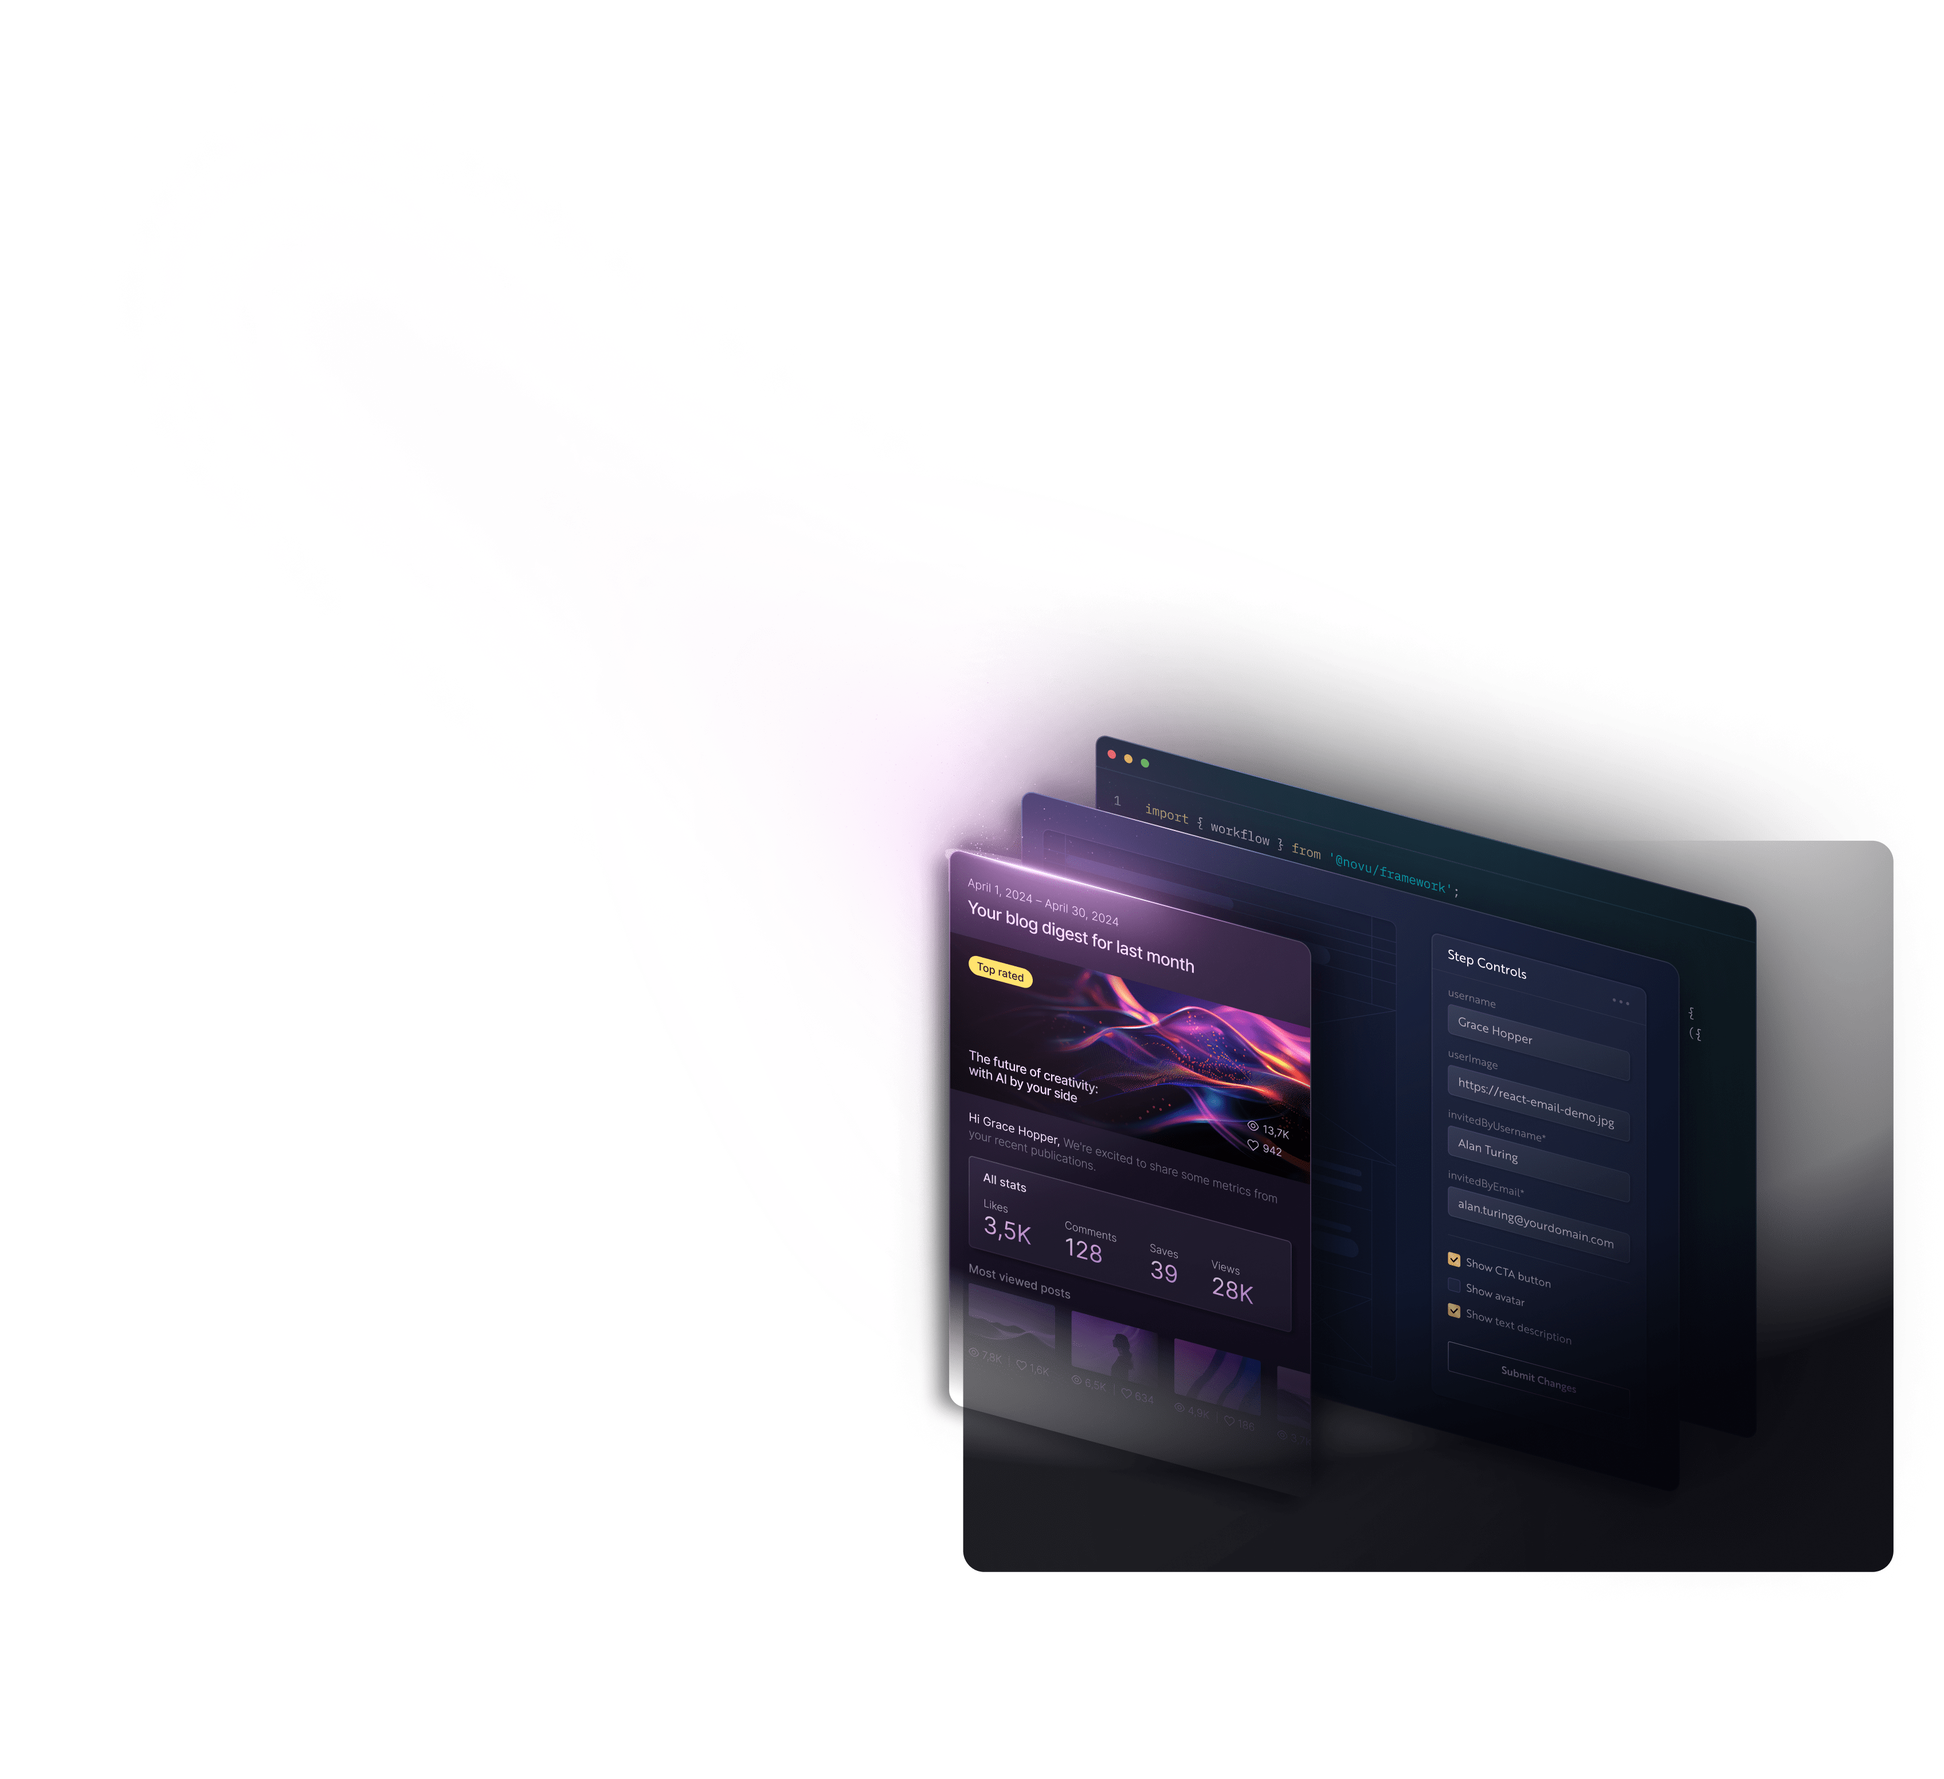
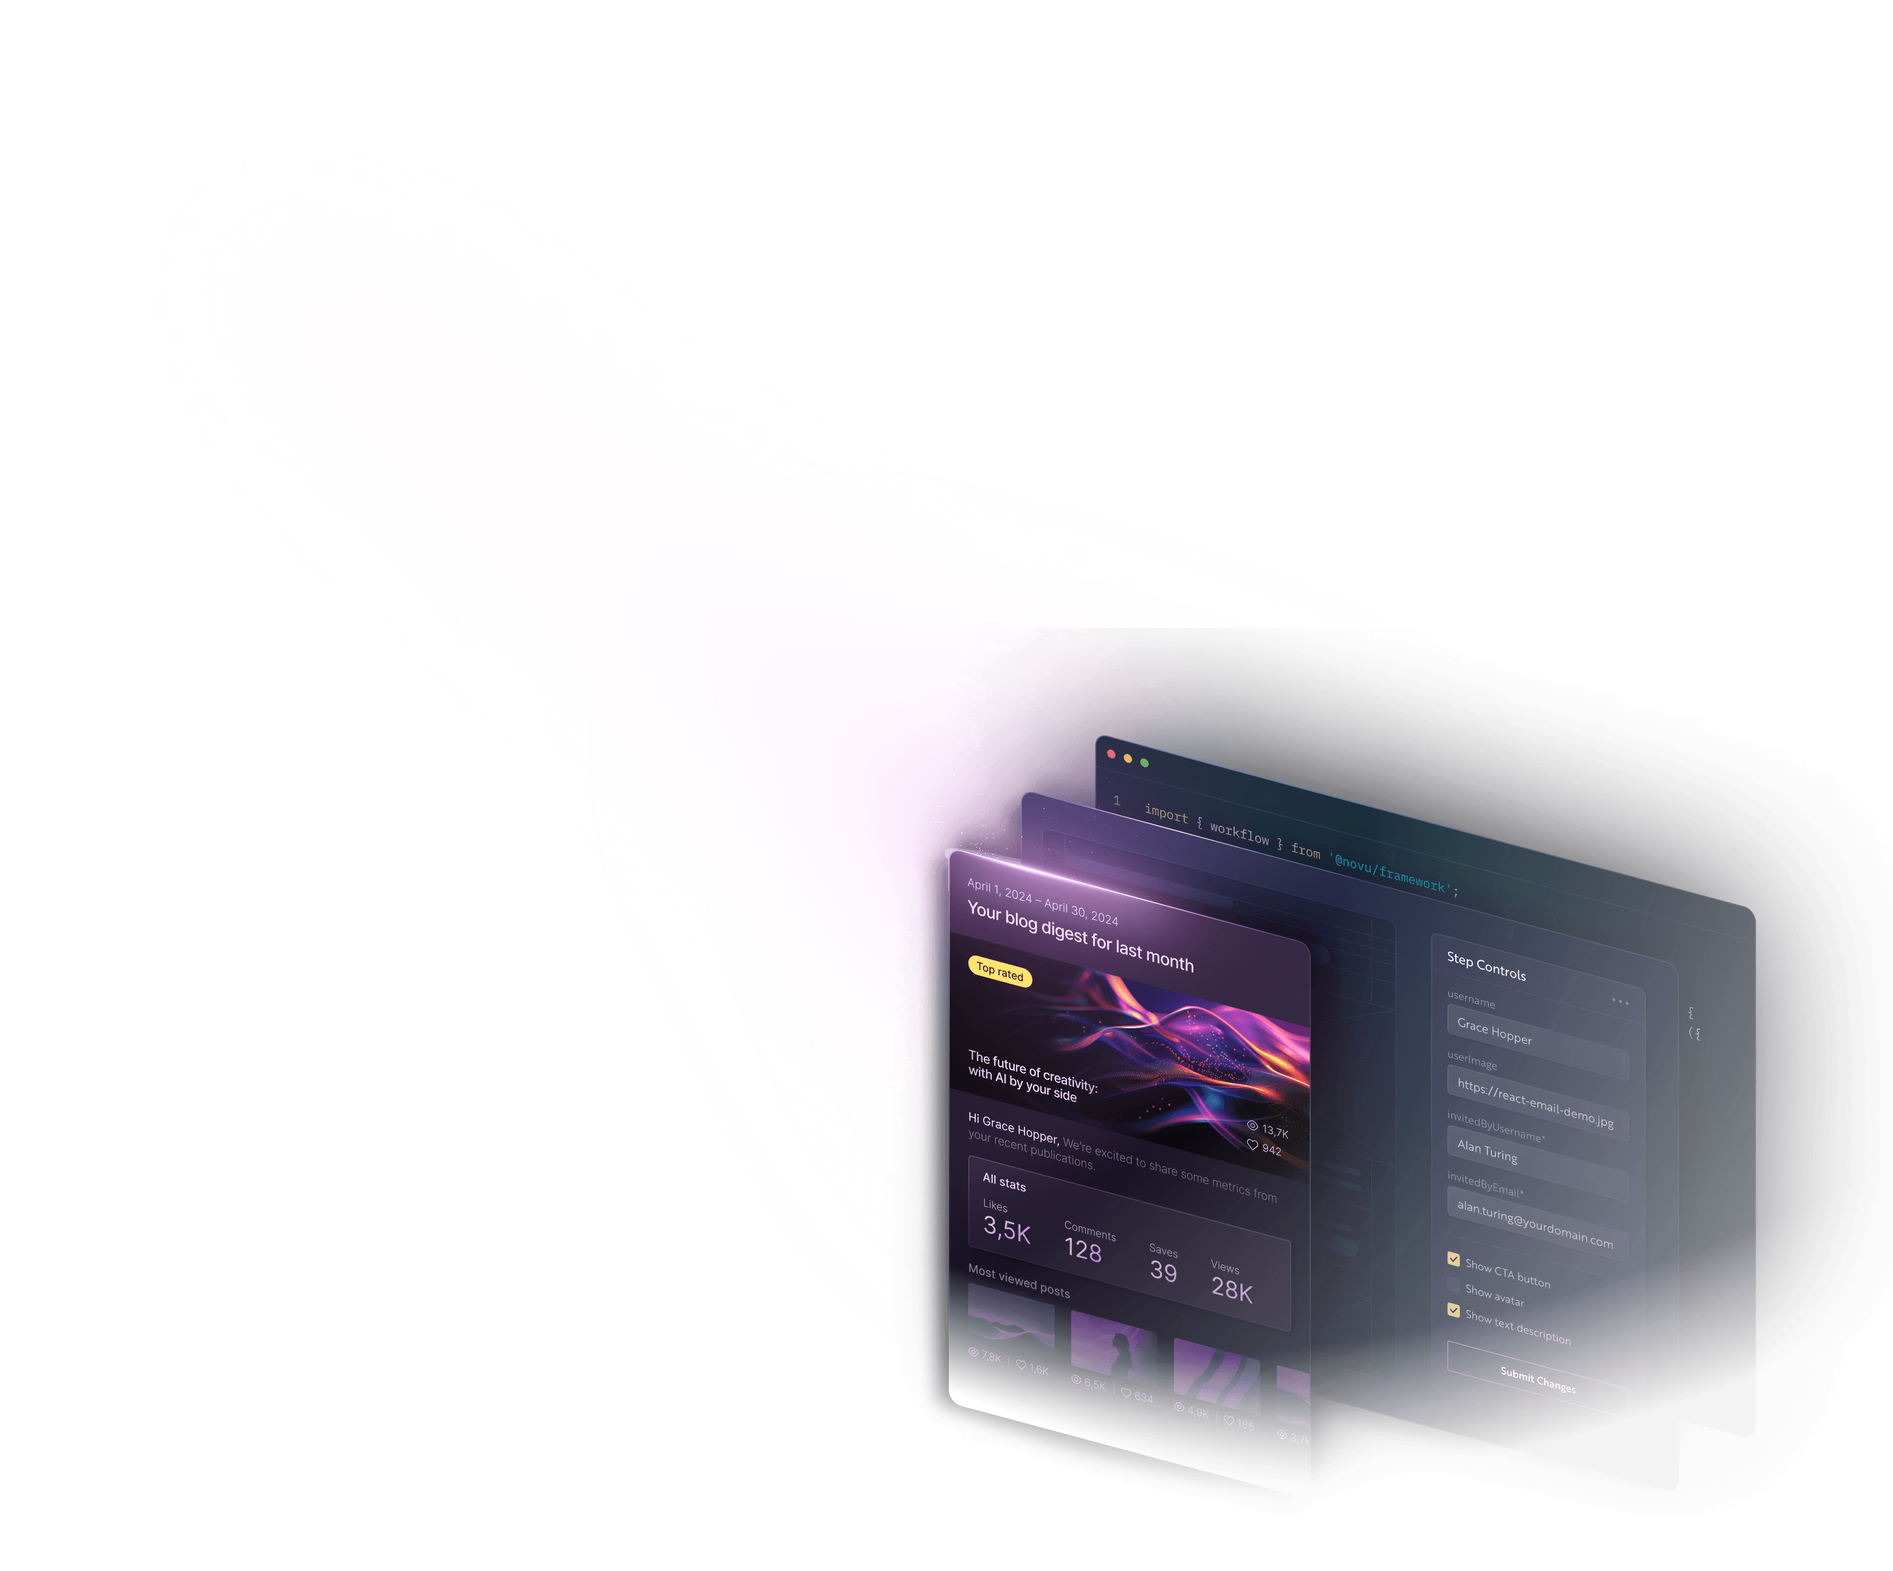
refactor: homepage cleanup

Changed region(s): [[0.4676, 0.372, 0.9976, 0.961]]

diff --git a/src/components/pages/home/code/code.jsx b/src/components/pages/home/code/code.jsx
@@ -62,9 +62,9 @@ const Code = () => {
 
   return (
     <section className="code mt-[206px] lg:mt-36 md:mt-[116px] sm:mt-20">
-      <div className="container-lg px-8 min-h-[836px] relative lg:max-w-5xl lg:min-h-[692px] md:max-w-3xl md:min-h-[535px] sm:min-h-[324px]">
+      <div className="container-lg px-8 min-h-[836px] relative lg:w-full sm:px-5 lg:max-w-5xl lg:min-h-[692px] md:max-w-3xl md:min-h-[535px] sm:min-h-[324px]">
         <h2
-          className="relative z-10 text-[44px] leading-none tracking-snug font-medium text-transparent max-w-[700px] bg-clip-text bg-[linear-gradient(360deg,rgba(104,181,215,1)_-19.23%,#FFFFFF_30.54%)] ml-[42px] lg:text-5xl lg:ml-8 md:text-4xl md:max-w-md md:ml-0 sm:text-[32px]"
+          className="relative z-10 text-[44px] leading-none tracking-snug font-medium text-transparent max-w-[700px] bg-clip-text bg-[linear-gradient(360deg,rgba(104,181,215,1)_-19.23%,#FFFFFF_30.54%)] ml-[42px] lg:text-5xl lg:ml-8 md:text-4xl md:max-w-lg md:ml-0 sm:text-[32px]"
           dangerouslySetInnerHTML={{ __html: TITLE }}
         />
         <p className="mt-4 text-[17px] leading-snug font-book text-gray-9 max-w-[800px] ml-[42px] lg:ml-8 md:ml-0 lg:mt-2.5 md:text-base md:mt-3">
@@ -91,9 +91,9 @@ const Code = () => {
             </li>
           ))}
         </ul>
-        <div className="relative z-10 lg:mx-auto sm:max-w-80 sm:mx-auto">
+        <div className="relative z-10 lg:mx-auto sm:max-w-[572px] sm:mx-auto sm-xs:max-w-80">
           <SyntaxHighlighter
-            className="echo-code relative z-10 pl-[42px] mt-[70px] scrollbar-hidden text-sm font-normal lg:mt-[62px] lg:pl-[35px] lg:text-xs md:mt-[53px] md:pl-[26px] sm:text-[10px] sm:mt-11 sm:overflow-y-scroll sm:ml-2 sm:pl-[7px] sm:mr-1.5 sm:[mask-image:linear-gradient(270deg,rgba(255,255,255,0.5)_0%,#FFFFFF_11.33%)]"
+            className="echo-code relative z-10 pl-[42px] mt-[70px] scrollbar-hidden text-sm font-normal lg:mt-[62px] lg:pl-[35px] lg:text-xs md:mt-[53px] md:pl-[26px] sm:text-[10px] sm:mt-11 sm:overflow-y-scroll sm:ml-2 sm:pl-[7px] sm:mr-1.5 sm:[mask-image:linear-gradient(270deg,transparent_1%,#FFFFFF_25%)]"
             style={{
               marginTop: '20px',
             }}
@@ -111,30 +111,25 @@ const Code = () => {
             width={1252}
             height={766}
             quality={100}
+            aria-hidden
           />
           <StaticImage
-            className="!absolute pointer-events-none w-[482px] top-[-143px] left-[-75px] lg:top-[-135px] md:top-[-125px] md:!hidden -z-10"
-            src="./images/code-light.png"
-            alt=""
-            width={482}
-            height={206}
-            quality={100}
-          />
-          <StaticImage
-            className="!absolute pointer-events-none !hidden z-0 md:!inline-block md:w-[775px] md:bottom-[-28px] md:left-[-61px] sm:!hidden"
+            className="!absolute pointer-events-none !hidden z-0 md:!inline-block md:w-[775px] md:bottom-[-28px] md:left-[-61px] sm:w-[652px] sm-xs:!hidden"
             src="./images/code-background-tablet.png"
             alt=""
             width={775}
             height={633}
             quality={100}
+            aria-hidden
           />
           <StaticImage
-            className="!absolute pointer-events-none !hidden z-0 sm:!inline-block sm:w-[351px] sm:bottom-[-20px] sm:-left-7"
+            className="!absolute pointer-events-none !hidden z-0 sm-xs:!inline-block sm-xs:w-[351px] sm-xs:bottom-[-18px] sm-xs:-left-7"
             src="./images/code-background-mobile.png"
             alt=""
             width={351}
             height={453}
             quality={100}
+            aria-hidden
           />
         </div>
         <div

diff --git a/src/components/pages/home/hero/hero.jsx b/src/components/pages/home/hero/hero.jsx
@@ -13,7 +13,7 @@ const DESCRIPTION =
 
 const Hero = () => (
   <section className="hero pt-[339px] pb-[180px] lg:pt-[196px] lg:pb-[200px] md:pt-[98px] md:pb-0">
-    <div className="container-xl relative">
+    <div className="container-xl relative xl:px-10 lg:px-8 lg:max-w-none md:max-w-3xl sm:max-w-lg sm:px-5">
       <div className="max-w-[562px] lg:max-w-md md:max-w-none md:px-16 sm:px-0">
         <h1 className="relative text-[52px] z-10 leading-denser tracking-snug font-medium lg:text-5xl md:text-4xl sm:text-[30px] sm:text-center">
           {TITLE}
@@ -23,7 +23,7 @@ const Hero = () => (
         </p>
         <div className="relative mt-11 z-10 flex items-center justify-left gap-x-7 gap-y-5 sm:mt-7 sm:gap-x-4 sm-xs:grid sm-xs:w-full sm-xs:grid-cols-2">
           <Button
-            className="w-[152px] sm-xs:w-full"
+            className="w-[170px] sm-xs:w-full"
             size="sm"
             theme="white-filled"
             {...LINKS.getStarted}
@@ -32,27 +32,27 @@ const Hero = () => (
             Create Account
           </Button>
           <Button
-            className="w-[152px] sm-xs:w-full"
+            className="w-[170px] sm-xs:w-full"
             size="sm"
-            theme="white-outline"
+            theme="gray-outline"
             {...LINKS.BAM}
             onClick={buttonClick('book_a_meeting', { type: 'homepage' })}
           >
             Book a Session
           </Button>
         </div>
-
-        <div className="absolute pointer-events-none w-full h-full left-0 top-0 z-0 md:relative md:w-[702px] md:mx-auto md:h-auto md:aspect-[1.2] sm:w-80 sm:aspect-[0.65]">
-          <StaticImage
-            className="!absolute w-[1696px] h-auto left-[-188px] top-[-797px] lg:w-[1263px] lg:left-[-76px] lg:top-[-530px] md:w-[1397px] md:left-[-621px] md:top-[-456px] sm:w-[994px] sm:left-[-466px] sm:top-[-280px]"
-            src="./images/illustration.png"
-            alt=""
-            width={1696}
-            height={1552}
-            loading="eager"
-            quality={100}
-          />
-        </div>
+      </div>
+      <div className="absolute pointer-events-none w-full h-full left-0 top-0 z-0 md:relative md:w-[702px] md:mx-auto md:h-auto md:aspect-[1.2] sm:w-80 sm:aspect-[0.65]">
+        <StaticImage
+          className="!absolute w-[1652px] h-auto left-[-188px] top-[-797px] lg:w-[1246px] lg:left-[-93px] lg:top-[-538px] md:w-[1353px] md:left-[-616px] md:top-[-454px] sm:w-[994px] sm:left-[-466px] sm:top-[-280px]"
+          src="./images/illustration.png"
+          alt=""
+          width={1652}
+          height={1371}
+          loading="eager"
+          quality={100}
+          aria-hidden
+        />
       </div>
     </div>
   </section>

diff --git a/src/components/pages/home/infrastructure/infrastructure.jsx b/src/components/pages/home/infrastructure/infrastructure.jsx
@@ -10,7 +10,7 @@ const CARDS_IMAGE_CLASS_NAME_DESKTOP =
   '!absolute w-fit h-fit inset-0 z-0 rounded-xl lg:h-full lg:w-auto [&_img]:lg:!w-auto [&_img]:lg:!-translate-x-1/2 [&_img]:lg:!left-1/2 sm:!hidden';
 
 const CARDS_IMAGE_CLASS_NAME_MOBILE =
-  '!hidden !absolute w-fit h-fit inset-0 z-0 rounded-xl sm:!inline-block';
+  '!hidden !absolute w-full inset-0 z-0 rounded-xl sm:!inline-block';
 
 const CARDS = [
   {
@@ -27,6 +27,7 @@ const CARDS = [
         height={380}
         loading="eager"
         quality={100}
+        aria-hidden
       />
     ),
     imageMobile: (
@@ -38,6 +39,7 @@ const CARDS = [
         height={250}
         loading="eager"
         quality={100}
+        aria-hidden
       />
     ),
   },
@@ -55,6 +57,7 @@ const CARDS = [
         height={380}
         loading="eager"
         quality={100}
+        aria-hidden
       />
     ),
     imageMobile: (
@@ -66,6 +69,7 @@ const CARDS = [
         height={250}
         loading="lazy"
         quality={100}
+        aria-hidden
       />
     ),
   },
@@ -83,6 +87,7 @@ const CARDS = [
         height={380}
         loading="lazy"
         quality={100}
+        aria-hidden
       />
     ),
     imageMobile: (
@@ -94,6 +99,7 @@ const CARDS = [
         height={250}
         loading="lazy"
         quality={100}
+        aria-hidden
       />
     ),
   },
@@ -111,6 +117,7 @@ const CARDS = [
         height={380}
         loading="lazy"
         quality={100}
+        aria-hidden
       />
     ),
     imageMobile: (
@@ -122,13 +129,14 @@ const CARDS = [
         height={250}
         loading="lazy"
         quality={100}
+        aria-hidden
       />
     ),
   },
 ];
 
 const Infrastructure = () => (
-  <section className="infrastructure md:mt-[130px] sm:mt-[88px]">
+  <section className="infrastructure mt-[120px] md:mt-[88px]">
     <div className="container-lg relative xl:px-0 lg:px-8 lg:w-full lg:max-w-5xl md:max-w-3xl sm:px-5">
       <h2 className="relative z-10 text-6xl leading-denser tracking-snug font-medium max-w-3xl lg:text-4xl lg:max-w-xl md:text-[32px] md:max-w-lg sm:text-3xl">
         {TITLE}
@@ -140,7 +148,7 @@ const Infrastructure = () => (
         {CARDS.map(({ title, description, className, image, imageMobile }, index) => (
           <li
             className={clsx(
-              'relative h-[382px] rounded-xl bg-clip-border border border-transparent lg:h-[322px] md:h-[252px] sm:w-[320px] sm:h-[250px]',
+              'relative h-[382px] rounded-xl bg-clip-border border border-transparent lg:h-[322px] md:h-[252px] sm:max-w-[380px] sm:w-full sm:h-[250px]',
               className,
               {
                 'w-[770px] lg:w-[608px] md:w-[446px]': index % 2 === 0,

diff --git a/src/components/pages/home/libraries/libraries.jsx b/src/components/pages/home/libraries/libraries.jsx
@@ -74,7 +74,7 @@ const LIBRARIES = [
 ];
 
 const Libraries = () => (
-  <section className="libraries mt-[172px] lg:mt-[100px] md:mt-[131px] sm:mt-28">
+  <section className="libraries mt-[172px] lg:mt-[100px] md:mt-[131px] sm:mt-18">
     <div className="container-md text-center">
       <h2 className="text-5xl leading-tight tracking-snug font-medium lg:text-[32px] md:text-3xl">
         {TITLE}
@@ -85,7 +85,7 @@ const Libraries = () => (
       <ul className="grid grid-cols-5 mt-10 px-1 lg:mt-8 md:mt-7 sm:grid-cols-2 sm:mt-8">
         {LIBRARIES.map(({ title, src, target }, index) => (
           <li
-            className={clsx('p-8 border-gray-2 lg:py-7 md:p-5 sm:px-[30px] sm:py-6', {
+            className={clsx('p-8 border-gray-2 lg:py-7 md:p-5', {
               'border-b': index < 5,
               'border-r': (index + 1) % 5 !== 0,
               'sm:border-r': index % 2 === 0,
@@ -96,7 +96,7 @@ const Libraries = () => (
           >
             <Link className="h-full flex items-center" to={target}>
               <img
-                className="mx-auto"
+                className="mx-auto sm:max-h-10"
                 src={src}
                 alt={title}
                 width={128}

diff --git a/src/components/pages/home/inbox/inbox.jsx b/src/components/pages/home/inbox/inbox.jsx
@@ -27,7 +27,7 @@ const Inbox = () => {
   };
 
   return (
-    <section className="notification-center safe-paddings pb-30 pt-40 lg:pb-24 lg:pt-32 md:pb-18 md:pt-28 sm:pb-12 sm:pt-18">
+    <section className="inbox safe-paddings pt-40 lg:pt-32 md:pt-28 sm:pt-18">
       <div className="container grid-gap-x grid grid-cols-12 items-center md:flex md:flex-col">
         <div
           className="relative col-start-1 col-end-9 xl:col-end-8 md:order-2 md:mt-11 md:w-full sm:mt-8"
@@ -40,7 +40,7 @@ const Inbox = () => {
           <h2 className="text-[44px] leading-denser tracking-snug font-medium max-w-4xl lg:text-[34px] md:text-[30px]">
             {TITLE}
           </h2>
-          <p className="text-[17px] leading-snug font-book text-gray-9 mt-3 lg:mt-2.5 md:text-base md:mt-3">
+          <p className="text-[17px] leading-snug font-book text-gray-9 mt-3 lg:mt-2.5 md:text-base md:mt-3 md:max-w-xl md:mx-auto">
             {DESCRIPTION}
           </p>
 

diff --git a/src/components/pages/home/reviews/reviews.jsx b/src/components/pages/home/reviews/reviews.jsx
@@ -161,13 +161,13 @@ const ITEMS = [
 ];
 
 const Reviews = () => (
-  <section className="reviews safe-paddings pt-40 lg:pt-28 md:pt-16 sm:pt-11">
+  <section className="reviews safe-paddings mt-40 lg:mt-28 md:mt-16 sm:mt-20">
     <div className="container">
       <h3 className="text-center text-6xl leading-tight text-white md:text-3xl">{TITLE}</h3>
       <p className="mx-auto mt-5 max-w-[720px] text-center text-lg leading-snug text-gray-9 lg:mt-3 lg:text-base">
         {DESCRIPTION}
       </p>
-      <ul className="mt-10 flex h-[687px] w-full flex-col flex-wrap content-between gap-10 lg:h-[760px] lg:gap-7 sm:mt-6 sm:h-auto sm:flex-nowrap sm:gap-5">
+      <ul className="mt-10 flex h-[687px] w-full flex-col flex-wrap content-between gap-10 lg:h-[760px] lg:gap-7 md:h-[662px] sm:mt-6 sm:h-auto sm:flex-nowrap sm:gap-5">
         {ITEMS.map(({ text, image, author, linkUrl }, index) => (
           <li
             key={index}

diff --git a/src/components/pages/home/flexibility/flexibility.jsx b/src/components/pages/home/flexibility/flexibility.jsx
@@ -14,7 +14,7 @@ const LINK = {
 };
 
 const Flexibility = () => (
-  <section className="flexibility mt-[245px] lg:mt-[207px] md:mt-[180px] sm:mt-[100px]">
+  <section className="flexibility mt-[245px] lg:mt-[207px] md:mt-28 sm:mt-20">
     <div className="container-2xl relative flex justify-end xl:px-10 lg:px-8 lg:max-w-none sm:px-5 sm:flex-col">
       <div className="relative z-10 max-w-96 min-h-[558px] lg:max-w-72 lg:min-h-[425px] md:max-w-64 md:min-h-[305px] sm:max-w-none sm:min-h-fit">
         <h2 className="text-[44px] leading-denser tracking-snug font-medium max-w-4xl lg:text-[34px] md:text-[30px]">
@@ -38,6 +38,7 @@ const Flexibility = () => (
         height={1048}
         alt=""
         loading="lazy"
+        aria-hidden
       />
     </div>
   </section>

diff --git a/src/components/pages/home/cta/cta.jsx b/src/components/pages/home/cta/cta.jsx
@@ -38,7 +38,7 @@ const Cta = () => {
   }, [isCopied]);
 
   return (
-    <section className="cta mt-[244px] mb-[118px] lg:mt-[204px] lg:mb-[104px] md:mt-[124px] md:mb-[100px] sm:mt-[188px]">
+    <section className="cta mt-[244px] mb-[118px] lg:mt-[204px] lg:mb-[104px] md:mt-[124px] md:mb-[100px] sm:mt-20">
       <div className="container-sm relative">
         <div className="relative z-10 flex flex-col items-center">
           <h2 className="text-[44px] leading-denser tracking-snug font-medium max-w-4xl lg:text-4xl md:text-[32px]">

diff --git a/src/components/pages/home/logos/logos.jsx b/src/components/pages/home/logos/logos.jsx
@@ -91,7 +91,7 @@ const LOGOS = [
 ];
 
 const Logos = () => (
-  <section className="logos safe-paddings md:pt-32">
+  <section className="logos safe-paddings md:mt-24 sm:mt-20">
     <div className="container">
       <h2 className="text-md text-center font-book uppercase leading-none sm:text-sm sm:leading-snug">
         {TITLE}
